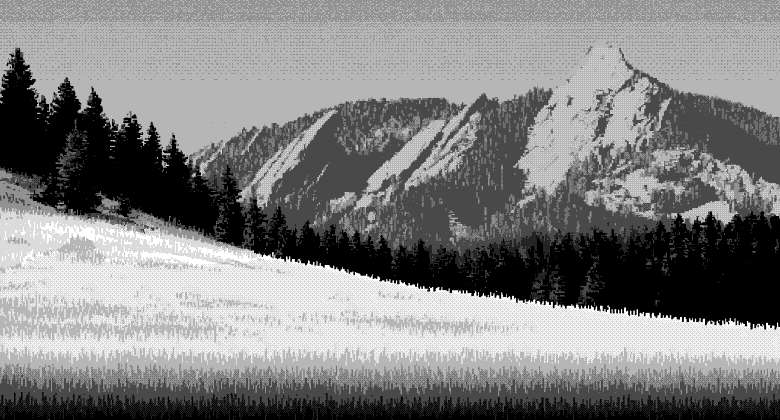
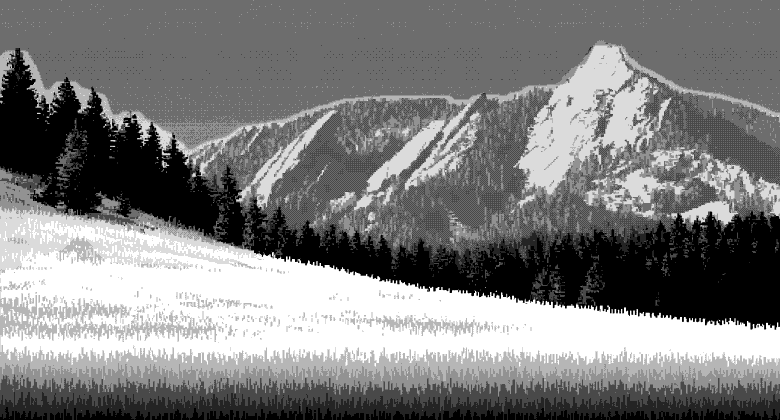
Park the tile reveal and ship the full plate; fix dusk rendering as midday

diff --git a/flatirons/markup.js b/flatirons/markup.js
@@ -15,7 +15,7 @@
 // fixed once — it looked right on OG and far too small on TRMNL X.
 // ─────────────────────────────────────────────────────────────────────────
 
-import { ART_W, ART_H, COLS, ROWS, TILES, TILE_W, TILE_H } from "./scene.js";
+import { ART_W, ART_H, REMINDER_CARD } from "./scene.js";
 
 // Titles and messages can contain characters that would break our HTML.
 export function escapeHtml(text) {
@@ -34,8 +34,8 @@ export function escapeHtml(text) {
 
 export const STYLES = `<style>
   /* The art area, 780x420 — what the framework leaves after the 10px gap
-     and the 40px title bar. Fixed pixels because the tile grid has to land
-     on whole pixels or the covers shimmer against the dither underneath. */
+     and the 40px title bar. Fixed pixels so the plate is never rescaled;
+     resampling an ordered dither is what turns it to mush. */
   .scene {
     position: relative;
     width: ${ART_W}px;
@@ -55,44 +55,33 @@ export const STYLES = `<style>
     image-rendering: pixelated;
   }
 
-  /* Twelve covers laid over the plate. CSS Grid rather than absolute
-     positioning for each: the grid guarantees they tile edge to edge with
-     no rounding gaps between them. */
-  .scene__tiles {
+  /* The reminder card. Not yet used, but the geometry is measured rather
+     than guessed: REMINDER_CARD sits entirely inside the pasture zone, the
+     brightest and least detailed part of the frame. */
+  .scene__reminder {
     position: absolute;
-    inset: 0;
-    display: grid;
-    grid-template-columns: repeat(${COLS}, ${TILE_W}px);
-    grid-template-rows: repeat(${ROWS}, ${TILE_H}px);
-  }
-
-  /* A revealed tile is simply nothing — the plate shows through. */
-  .tile {
-    background: transparent;
-  }
-
-  /* An unrevealed tile is a 25% ink stipple over white. The original 12%
-     white-over-image ghost was invisible on the panel — reflective e-ink
-     has no backlight, so pale greys collapse toward white. A pattern made
-     of full-black pixels survives where a pale tone cannot. */
-  .tile--hidden {
-    background-color: #fff;
-    background-image: repeating-conic-gradient(#000 0% 25%, #fff 0% 100%);
-    background-size: 4px 4px;
-    opacity: 0.94;
+    left: ${REMINDER_CARD.x}px;
+    top: ${REMINDER_CARD.y}px;
+    width: ${REMINDER_CARD.w}px;
+    height: ${REMINDER_CARD.h}px;
+    background: #fff;
+    border: 3px solid #000;
+    display: flex;
+    align-items: center;
+    justify-content: center;
+    padding: 0 16px;
+    text-align: center;
   }
 </style>`;
 
 // ── The page ───────────────────────────────────────────────────────────────
 
 export function buildView(scene, { debug = false } = {}) {
-  // Twelve cells in reading order. `scene.revealed` is a Set of the grid
-  // positions that are uncovered right now.
-  let tiles = "";
-  for (let i = 0; i < TILES; i++) {
-    const hidden = scene.revealed.has(i) ? "" : " tile--hidden";
-    tiles += `<div class="tile${hidden}"></div>`;
-  }
+  // The whole plate, every refresh. The tile grid that used to sit over this
+  // is parked behind REVEAL_ENABLED in scene.js — see the note there.
+  const reminder = scene.reminder
+    ? `<div class="scene__reminder">${escapeHtml(scene.reminder)}</div>`
+    : "";
 
   // The encouragement goes in the title bar's left slot, the date on the
   // right — the same two-slot pattern art-dashboard already uses, so the
@@ -109,7 +98,6 @@ export function buildView(scene, { debug = false } = {}) {
          ${escapeHtml(scene.local.dateKey)}
          ${String(scene.local.hour).padStart(2, "0")}:${String(scene.local.minute).padStart(2, "0")}
          · ${escapeHtml(scene.plate)}
-         · ${scene.revealedCount}/${TILES}
        </div>`
     : "";
 
@@ -119,8 +107,8 @@ export function buildView(scene, { debug = false } = {}) {
         ${debugBar}
         <img class="scene__plate"
              src="${escapeHtml(scene.plateUrl)}"
-             alt="The Boulder Flatirons at ${escapeHtml(scene.plate)}" />
-        <div class="scene__tiles">${tiles}</div>
+             alt="The Boulder Flatirons, ${escapeHtml(scene.time)}, ${escapeHtml(scene.weather)}" />
+        ${reminder}
       </div>
     </div>
     ${titleBar}
@@ -158,11 +146,6 @@ export function buildMarkupResponse(scene, options) {
     weekday: scene.local.weekday,
     date_long: scene.local.longDate,
     date: scene.local.dateKey,
-    revealed_count: scene.revealedCount,
-    tiles: Array.from({ length: TILES }, (_, i) => ({
-      index: i,
-      revealed: scene.revealed.has(i),
-    })),
 
     // ── For rendering without a template ──────────────────────────────────
     //

diff --git a/flatirons/scene.js b/flatirons/scene.js
@@ -39,12 +39,44 @@ export const TIME_ZONE = "America/Denver";
 export const ART_W = 780;
 export const ART_H = 420;
 
+// ── The tile reveal, parked ────────────────────────────────────────────────
+//
+// PARKED, NOT DELETED. Set this true and the grid comes back exactly as it
+// was — the order, the pacing and the clock arithmetic below are all intact
+// and still unit-testable.
+//
+// Why it came out: over a composed naturalistic photograph the grid read as a
+// RENDER FAULT rather than as anticipation. Someone glancing at the panel saw
+// a broken image, not a picture arriving. That reading is fatal for an object
+// meant to sit on a wall unexplained.
+//
+// It was also solving a problem that no longer exists. The reveal was invented
+// to make each day look different; time-of-day and weather now do that, and do
+// it without spending the image. The mechanic was costing us the photograph
+// and returning variation we already had.
+//
+// Worth revisiting in a form that doesn't cut the composition into squares —
+// a horizontal wipe following the light, or a reveal shaped by the terrain
+// rather than by a grid. The scheduling logic is the reusable part.
+export const REVEAL_ENABLED = false;
+
 export const COLS = 4;
 export const ROWS = 3;
 export const TILES = COLS * ROWS; // 12
 
 export const TILE_W = ART_W / COLS; // 195
 export const TILE_H = ART_H / ROWS; // 140
+
+// ── Where a reminder card sits ─────────────────────────────────────────────
+//
+// Kept from the reveal work, but no longer a grid cell. Measured against the
+// zone mask rather than chosen by eye: this rectangle is 100% inside the
+// pasture zone, which is the brightest and least detailed part of the frame,
+// so text on it has maximum contrast and covers nothing that matters.
+//
+// The peak sits right of centre and the treeline descends left to right, so
+// the lower LEFT is the only large area that stays clear at every hour.
+export const REMINDER_CARD = { x: 40, y: 290, w: 340, h: 100 };
 
 // Four lighting states × three weather states = twelve plates, named
 // "<time>-<weather>.png". Listed here so the plate route and the scene
@@ -299,13 +331,17 @@ export function messageFor(clock, dateKey) {
 // works standalone.
 export function buildScene(date, { plateBase = PLATE_BASE } = {}) {
   const local = localParts(date);
-  const shown = revealCount(local.minutes);
-  const order = revealOrder(local.dateKey);
 
-  // Which of the 12 grid positions are uncovered right now.
+  // With the reveal parked, every tile is "revealed" — which is just another
+  // way of saying the whole plate ships. The scheduling call is still made so
+  // the numbers stay observable in /health and in the local preview, and so
+  // turning REVEAL_ENABLED back on is a one-line change rather than an
+  // archaeology exercise.
+  const shown = REVEAL_ENABLED ? revealCount(local.minutes) : TILES;
+  const order = revealOrder(local.dateKey);
   const revealed = new Set(order.slice(0, shown));
 
-  const next = nextRevealAt(local.minutes);
+  const next = REVEAL_ENABLED ? nextRevealAt(local.minutes) : null;
 
   return {
     local,

diff --git a/flatirons/tools/build_plates.py b/flatirons/tools/build_plates.py
@@ -45,7 +45,12 @@ TIMES = {
     #          sky            massif         pasture        gamma
     "dawn":  ((-0.19, 1.00), ( 0.00, 1.10), (-0.08, 1.05), 1.00),
     "day":   (( 0.06, 1.00), ( 0.10, 1.05), ( 0.10, 1.05), 1.00),
-    "dusk":  ((-0.05, 1.05), (-0.07, 1.30), (-0.14, 1.20), 0.95),
+    # Dusk sky was -0.05, which landed at 67.5% luminance against day's
+    # 72.6% — five points apart, so a 6:43pm plate read as midday. Twilight
+    # is mostly a SKY event; the land keeps its warmth longer than the sky
+    # keeps its light. Sky drops hard, land lifts slightly to pay for the
+    # ink the darker sky costs.
+    "dusk":  ((-0.25, 1.05), (-0.02, 1.30), (-0.09, 1.20), 0.95),
     "night": ((-0.57, 0.90), ( 0.08, 1.10), ( 0.03, 1.00), 0.95),
 }
 

diff --git a/flatirons/DECISIONS.md b/flatirons/DECISIONS.md
@@ -177,3 +177,75 @@ quietly doing that at 800×432.
 **The general lesson:** the framework already calculates this. Hardcoding a
 height means maintaining a number it owns, and getting it wrong by 12px is
 what pushed the title bar off-screen in the first place.
+
+---
+
+## 11 · The tile reveal is parked, not removed
+
+**Brief said:** twelve tiles in a 4×3 grid, revealing one per interval, with
+ghosting for unrevealed tiles. This was the plugin's headline mechanic.
+
+**We do:** ship the full plate every refresh. `REVEAL_ENABLED = false` in
+`scene.js`; the order, pacing and clock arithmetic are untouched behind it.
+
+**Why:** over a composed naturalistic photograph the grid read as a **render
+fault**, not as anticipation. Someone glancing at the panel saw a broken
+image rather than a picture arriving — a fatal reading for an object meant to
+sit on a wall unexplained. The Minesweeper feeling depended on the underlying
+image being *graphic*; a photograph doesn't grant it.
+
+It was also solving a problem that no longer exists. The reveal was invented
+to make each day look different. Time-of-day and weather now do that, and do
+it without spending the image. The mechanic was costing the photograph and
+returning variation we already had.
+
+**What stays**, because it was never really about tiles:
+
+- the zone mask and weather compositing
+- the reminder card geometry — now measured against the composition rather
+  than snapped to a grid cell. `REMINDER_CARD` is a rectangle verified to sit
+  100% inside the pasture zone, the brightest and least detailed area, so
+  text has maximum contrast and covers nothing that matters
+- `revealOrder`, `revealCount`, `nextRevealAt`, and the 06:00–21:00 pacing
+
+**What was only ever scaffolding for tiling, and is now gone:**
+
+| Removed | What it was for |
+|---|---|
+| `.scene__tiles` grid CSS | positioning 12 covers |
+| `.tile` / `.tile--hidden` | the stipple treatment for unrevealed cells |
+| `tiles[]` in the JSON payload | feeding the template's cover loop |
+| `{% for tile in tiles %}` | drawing the covers |
+| `revealed_count` in the payload | only ever displayed alongside tiles |
+
+**One constraint quietly lifted.** The art area is 780×420 partly because
+both divide cleanly by the grid — 780/4 = 195, 420/3 = 140. With no grid,
+that no longer binds. The dimensions stay because they match the framework's
+computed art area 1:1 and the plate must never be rescaled, but a future
+change to the art size is no longer restricted to multiples of twelve.
+
+**Worth revisiting** in a form that doesn't cut the composition into squares:
+a horizontal wipe following the light, or a reveal shaped by the terrain
+itself. The scheduling logic is the reusable part, which is why it is parked
+rather than deleted. The old template is kept verbatim at
+`flatirons/parked/template-reveal.liquid`.
+
+---
+
+## 12 · Dusk was rendering as midday
+
+Reported from the device: a 6:43pm preview showed a midday-bright sky.
+
+**Not a clock bug.** Verified: 18:43 Denver resolves correctly through
+`Intl` and selects `dusk-clear`. The fault was in the tuning — dusk sky sat
+at **67.5%** luminance against day's **72.6%**, five points apart, so the
+plate read as noon.
+
+Twilight is mostly a *sky* event; the land holds its warmth longer than the
+sky holds its light. Dusk sky now drops to **43.1%**, with the land lifted
+slightly to pay for the ink the darker sky costs.
+
+    sky luminance:  dawn 53.3%   day 72.6%   dusk 43.1%   night 14.2%
+
+The lesson is that per-zone luminance needed to be *measured*, not eyeballed
+from a thumbnail — the numbers made an invisible five-point gap obvious.
